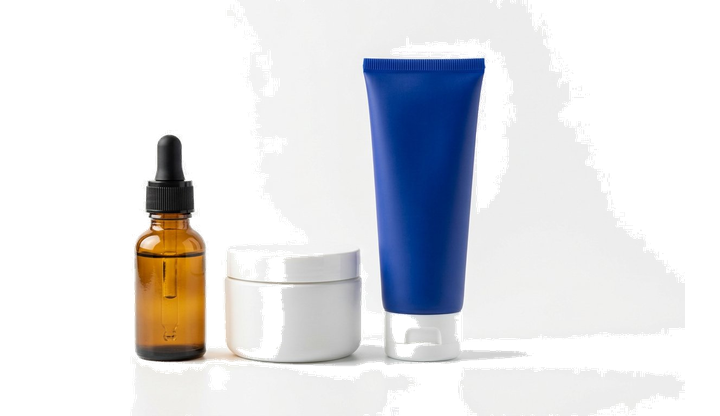
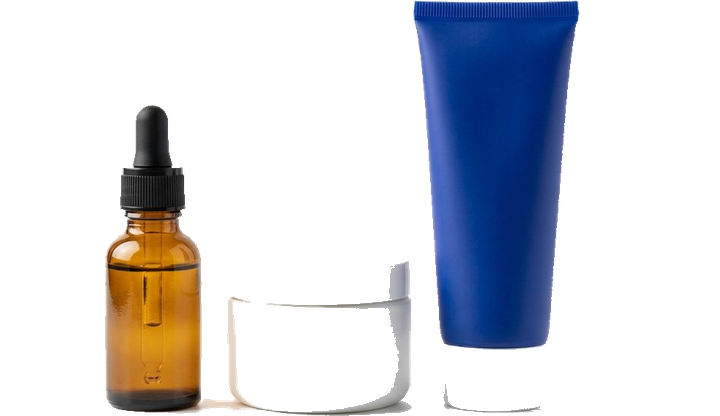
Home cards: tight photo cutouts — outline-only, fully transparent outside
Replace the line-art with real product photography cut hard to each
object's silhouette: background, studio shadows and checker remnants all
removed — fully opaque inside the outline, absolutely transparent outside
(binarized alpha, halo eroded, speck/pass passes, per-asset surgical
scrubs where shadows were enclosed between products). Art anchored
bottom-right with object-contain so nothing overlaps the title, subtitle
or Shop link at any breakpoint; CSS handles hover lift. The removed
mix-blend trick is gone for good — these are true alpha PNGs.

diff --git a/frontend/src/pages/Products/index.tsx b/frontend/src/pages/Products/index.tsx
@@ -18,7 +18,6 @@ import ProductViewPlaceholder from "../../components/ProductViewPlaceholder";
 import EmptyState from "../../components/EmptyState";
 import { useStoreSettings } from "../../features/storefront";
 import { useI18n } from "../../features/i18n";
-import CategoryArt, { ArtVariant } from "../../components/CategoryArt";
 import { getRecentlyViewed, ViewedProductSnapshot } from "../../utils/recentlyViewed";
 import { localizedName } from "../../utils/localizedEntity";
 import { formatPrice } from "../../utils/currency";
@@ -36,47 +35,47 @@ const CONCEPT_B_CATEGORIES = [
   {
     name: "Electronics",
     subtitle: "MacBook",
-    art: "electronics" as ArtVariant,
+    image: "/images/store/tiles/tile-electronics.png",
   },
   {
     name: "Fashion",
     subtitle: "Apparel",
-    art: "fashion" as ArtVariant,
+    image: "/images/store/tiles/tile-fashion.png",
   },
   {
     name: "Home",
     subtitle: "Decor",
-    art: "home" as ArtVariant,
+    image: "/images/store/tiles/tile-home.png",
   },
   {
     name: "Electronics",
     subtitle: "MacBook",
-    art: "electronics" as ArtVariant,
+    image: "/images/store/tiles/tile-electronics.png",
   },
   {
     name: "Beauty",
     subtitle: "Skincare",
-    art: "beauty" as ArtVariant,
+    image: "/images/store/tiles/tile-beauty.png",
   },
   {
     name: "Kitchen",
     subtitle: "Appliances",
-    art: "kitchen" as ArtVariant,
+    image: "/images/store/tiles/tile-kitchen.png",
   },
   {
     name: "Toys & Games",
     subtitle: "Lego",
-    art: "toys" as ArtVariant,
+    image: "/images/store/tiles/tile-toys.png",
   },
   {
     name: "Sports",
     subtitle: "Gear",
-    art: "sports" as ArtVariant,
+    image: "/images/store/tiles/tile-sports.png",
   },
   {
     name: "Grocery",
     subtitle: "Fresh produce",
-    art: "grocery" as ArtVariant,
+    image: "/images/store/tiles/tile-grocery.png",
   },
 ];
 
@@ -398,9 +397,11 @@ function Products() {
         <div className="grid grid-cols-1 gap-4 sm:grid-cols-2 lg:grid-cols-4">
           {/* Main hero card (spans 2) — oversized headline, art to the right edge */}
           <div className="relative h-44 overflow-hidden rounded-2xl border border-line bg-paper p-5 shadow-sm sm:col-span-2 sm:h-[10.75rem]">
-            <CategoryArt
-              variant="hero"
-              className="pointer-events-none absolute bottom-1 right-2 hidden h-[92%] w-[46%] text-ink sm:block"
+            <img
+              src="/images/store/tiles/hero-cluster.png"
+              alt=""
+              className="pointer-events-none absolute bottom-1 right-2 hidden h-[88%] w-[44%] object-contain object-bottom-right sm:block"
+              loading="eager"
             />
             <div className="relative flex h-full max-w-[60%] flex-col justify-center">
               {storeSettings.heroEyebrow && (
@@ -427,9 +428,11 @@ function Products() {
               key={`feature-${tile.name}`}
               className="relative h-44 overflow-hidden rounded-2xl border border-line bg-paper p-4 shadow-sm transition hover:shadow-md sm:h-[10.75rem]"
             >
-              <CategoryArt
-                variant={tile.art}
-                className="pointer-events-none absolute bottom-0 right-0 h-[72%] w-[72%] text-ink"
+              <img
+                src={tile.image}
+                alt=""
+                className="pointer-events-none absolute bottom-0 right-0 h-[70%] w-[72%] object-contain object-bottom-right"
+                loading="lazy"
               />
               <div className="relative">
                 <h3 className="font-heading text-lg font-bold leading-tight text-ink">{tile.name}</h3>
@@ -455,9 +458,11 @@ function Products() {
               key={`tile-${cat.name}-${cat.subtitle}`}
               className="relative h-40 overflow-hidden rounded-2xl border border-line bg-paper p-4 shadow-sm transition hover:shadow-md"
             >
-              <CategoryArt
-                variant={cat.art}
-                className="pointer-events-none absolute bottom-0 right-0 h-[68%] w-[80%] text-ink"
+              <img
+                src={cat.image}
+                alt=""
+                className="pointer-events-none absolute bottom-0 right-0 h-[66%] w-[78%] object-contain object-bottom-right"
+                loading="lazy"
               />
               <div className="relative">
                 <h4 className="font-heading text-lg font-bold leading-tight text-ink">{cat.name}</h4>
